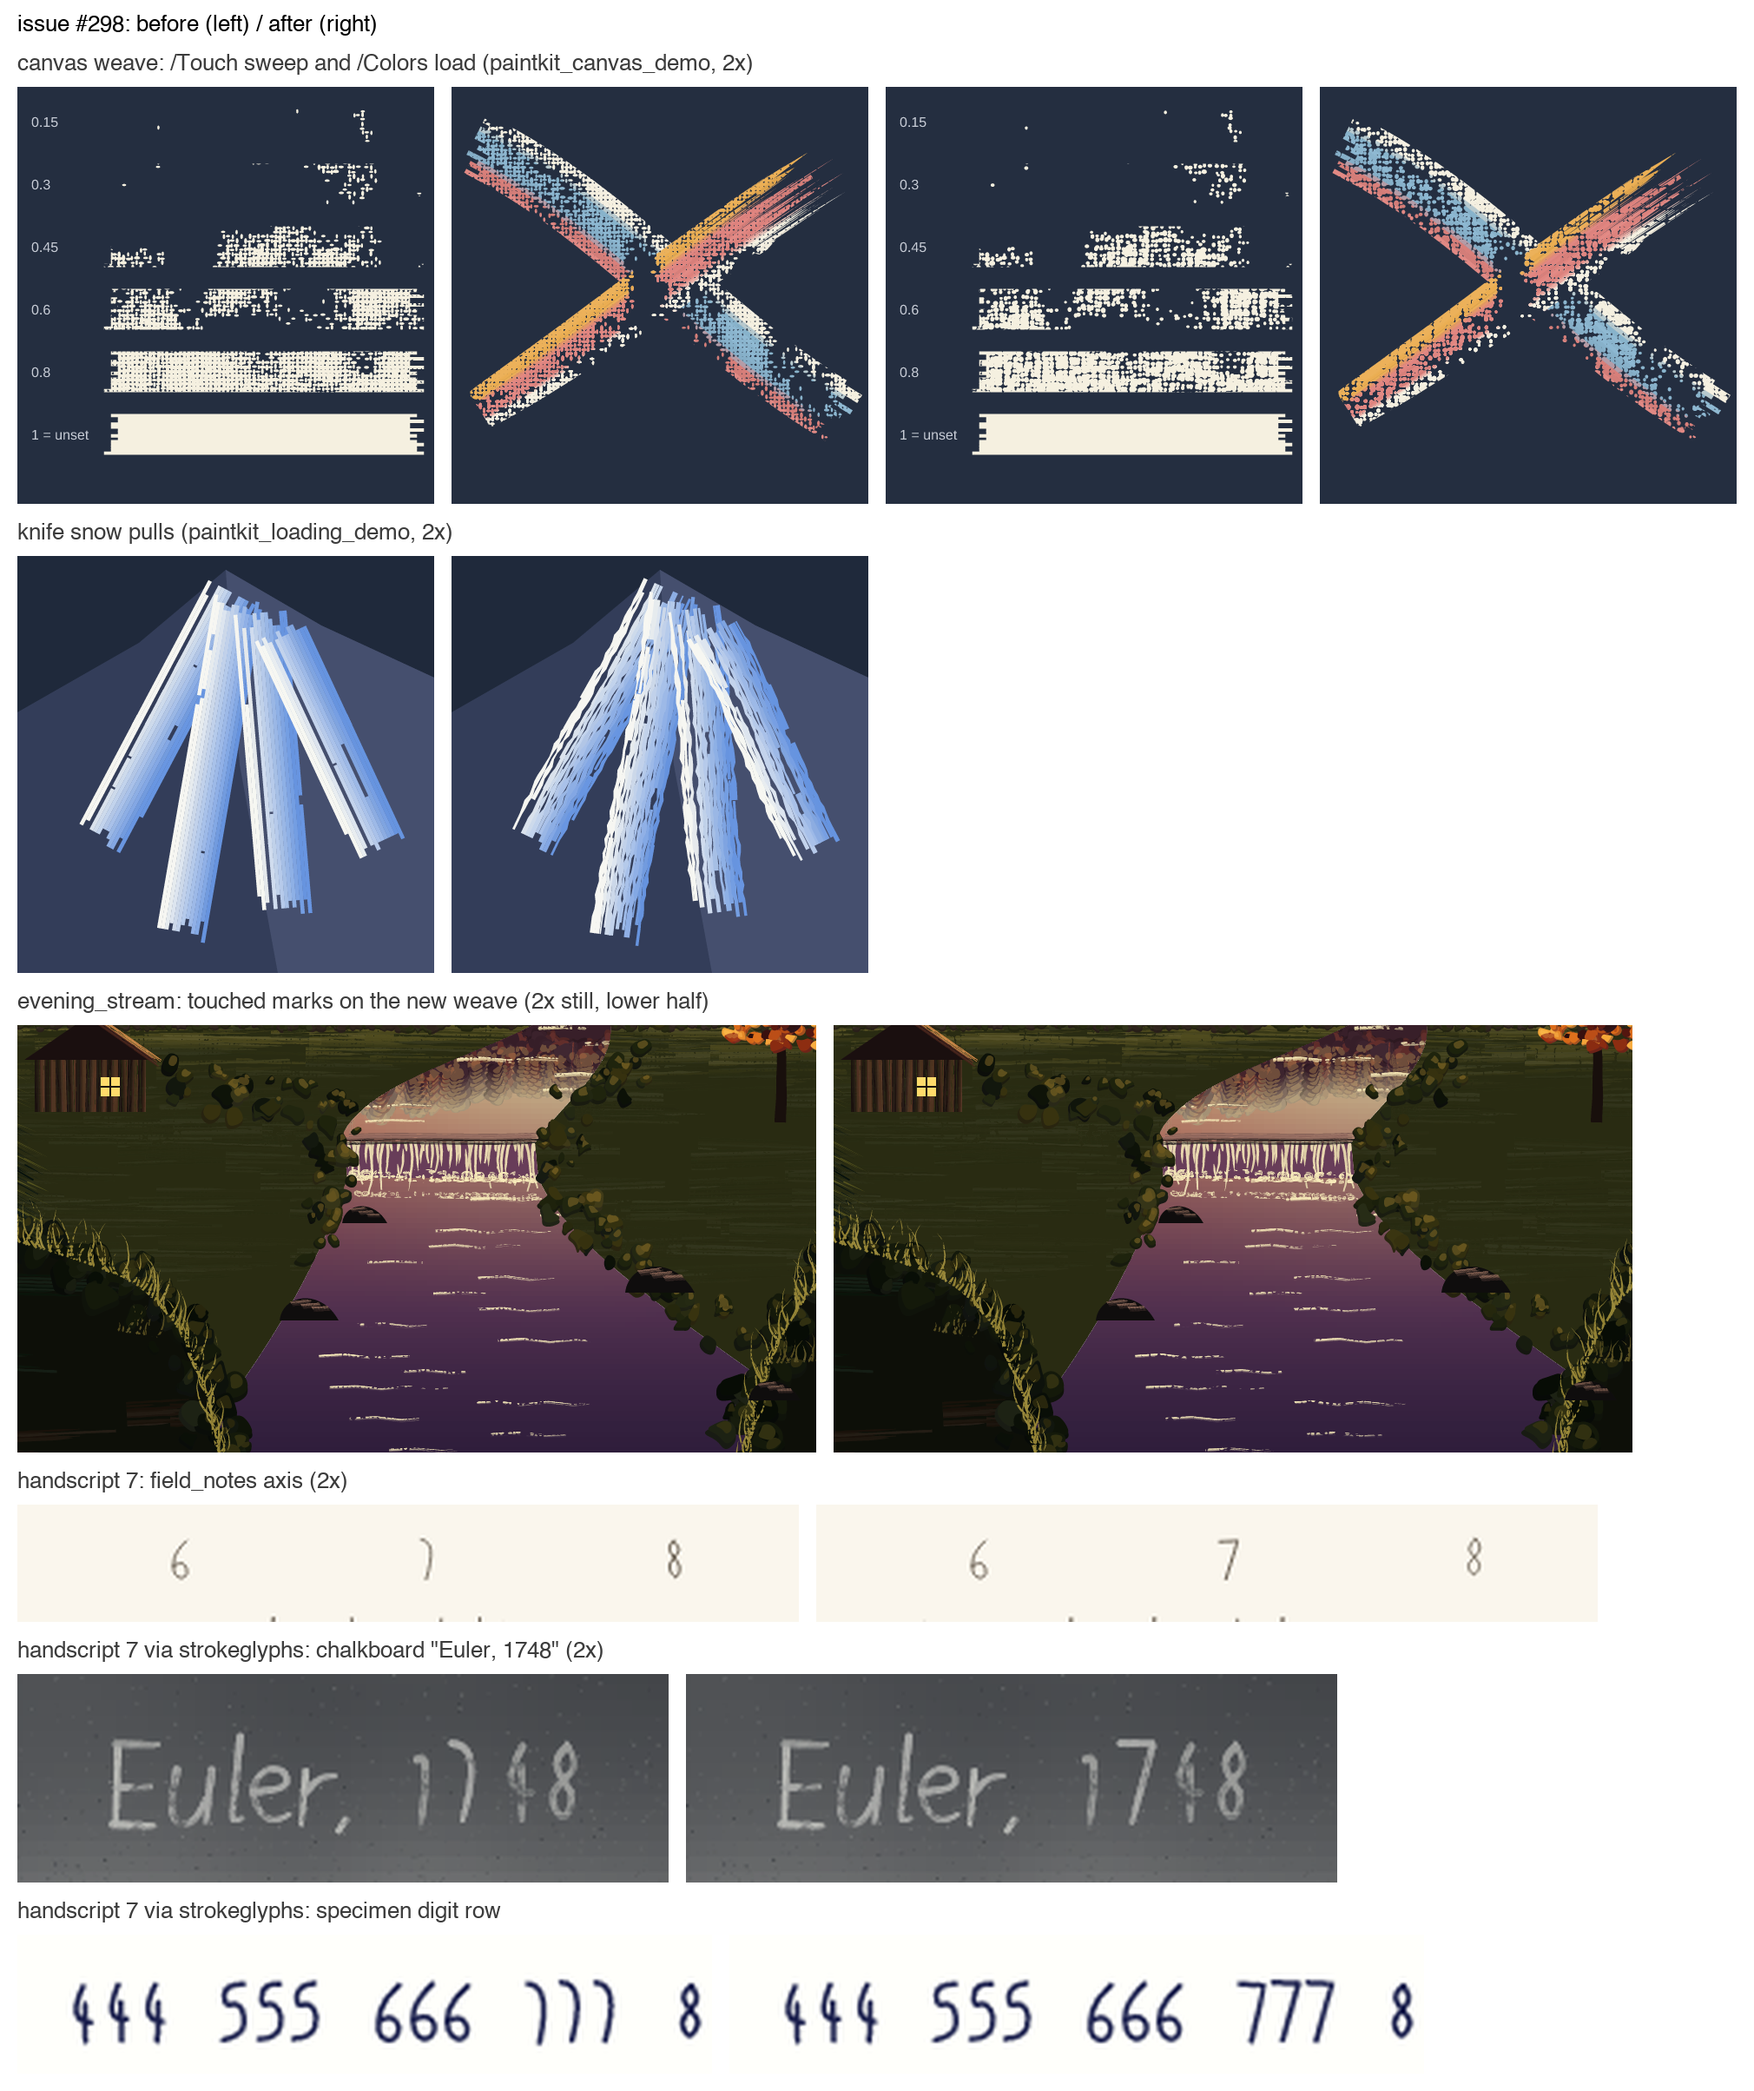
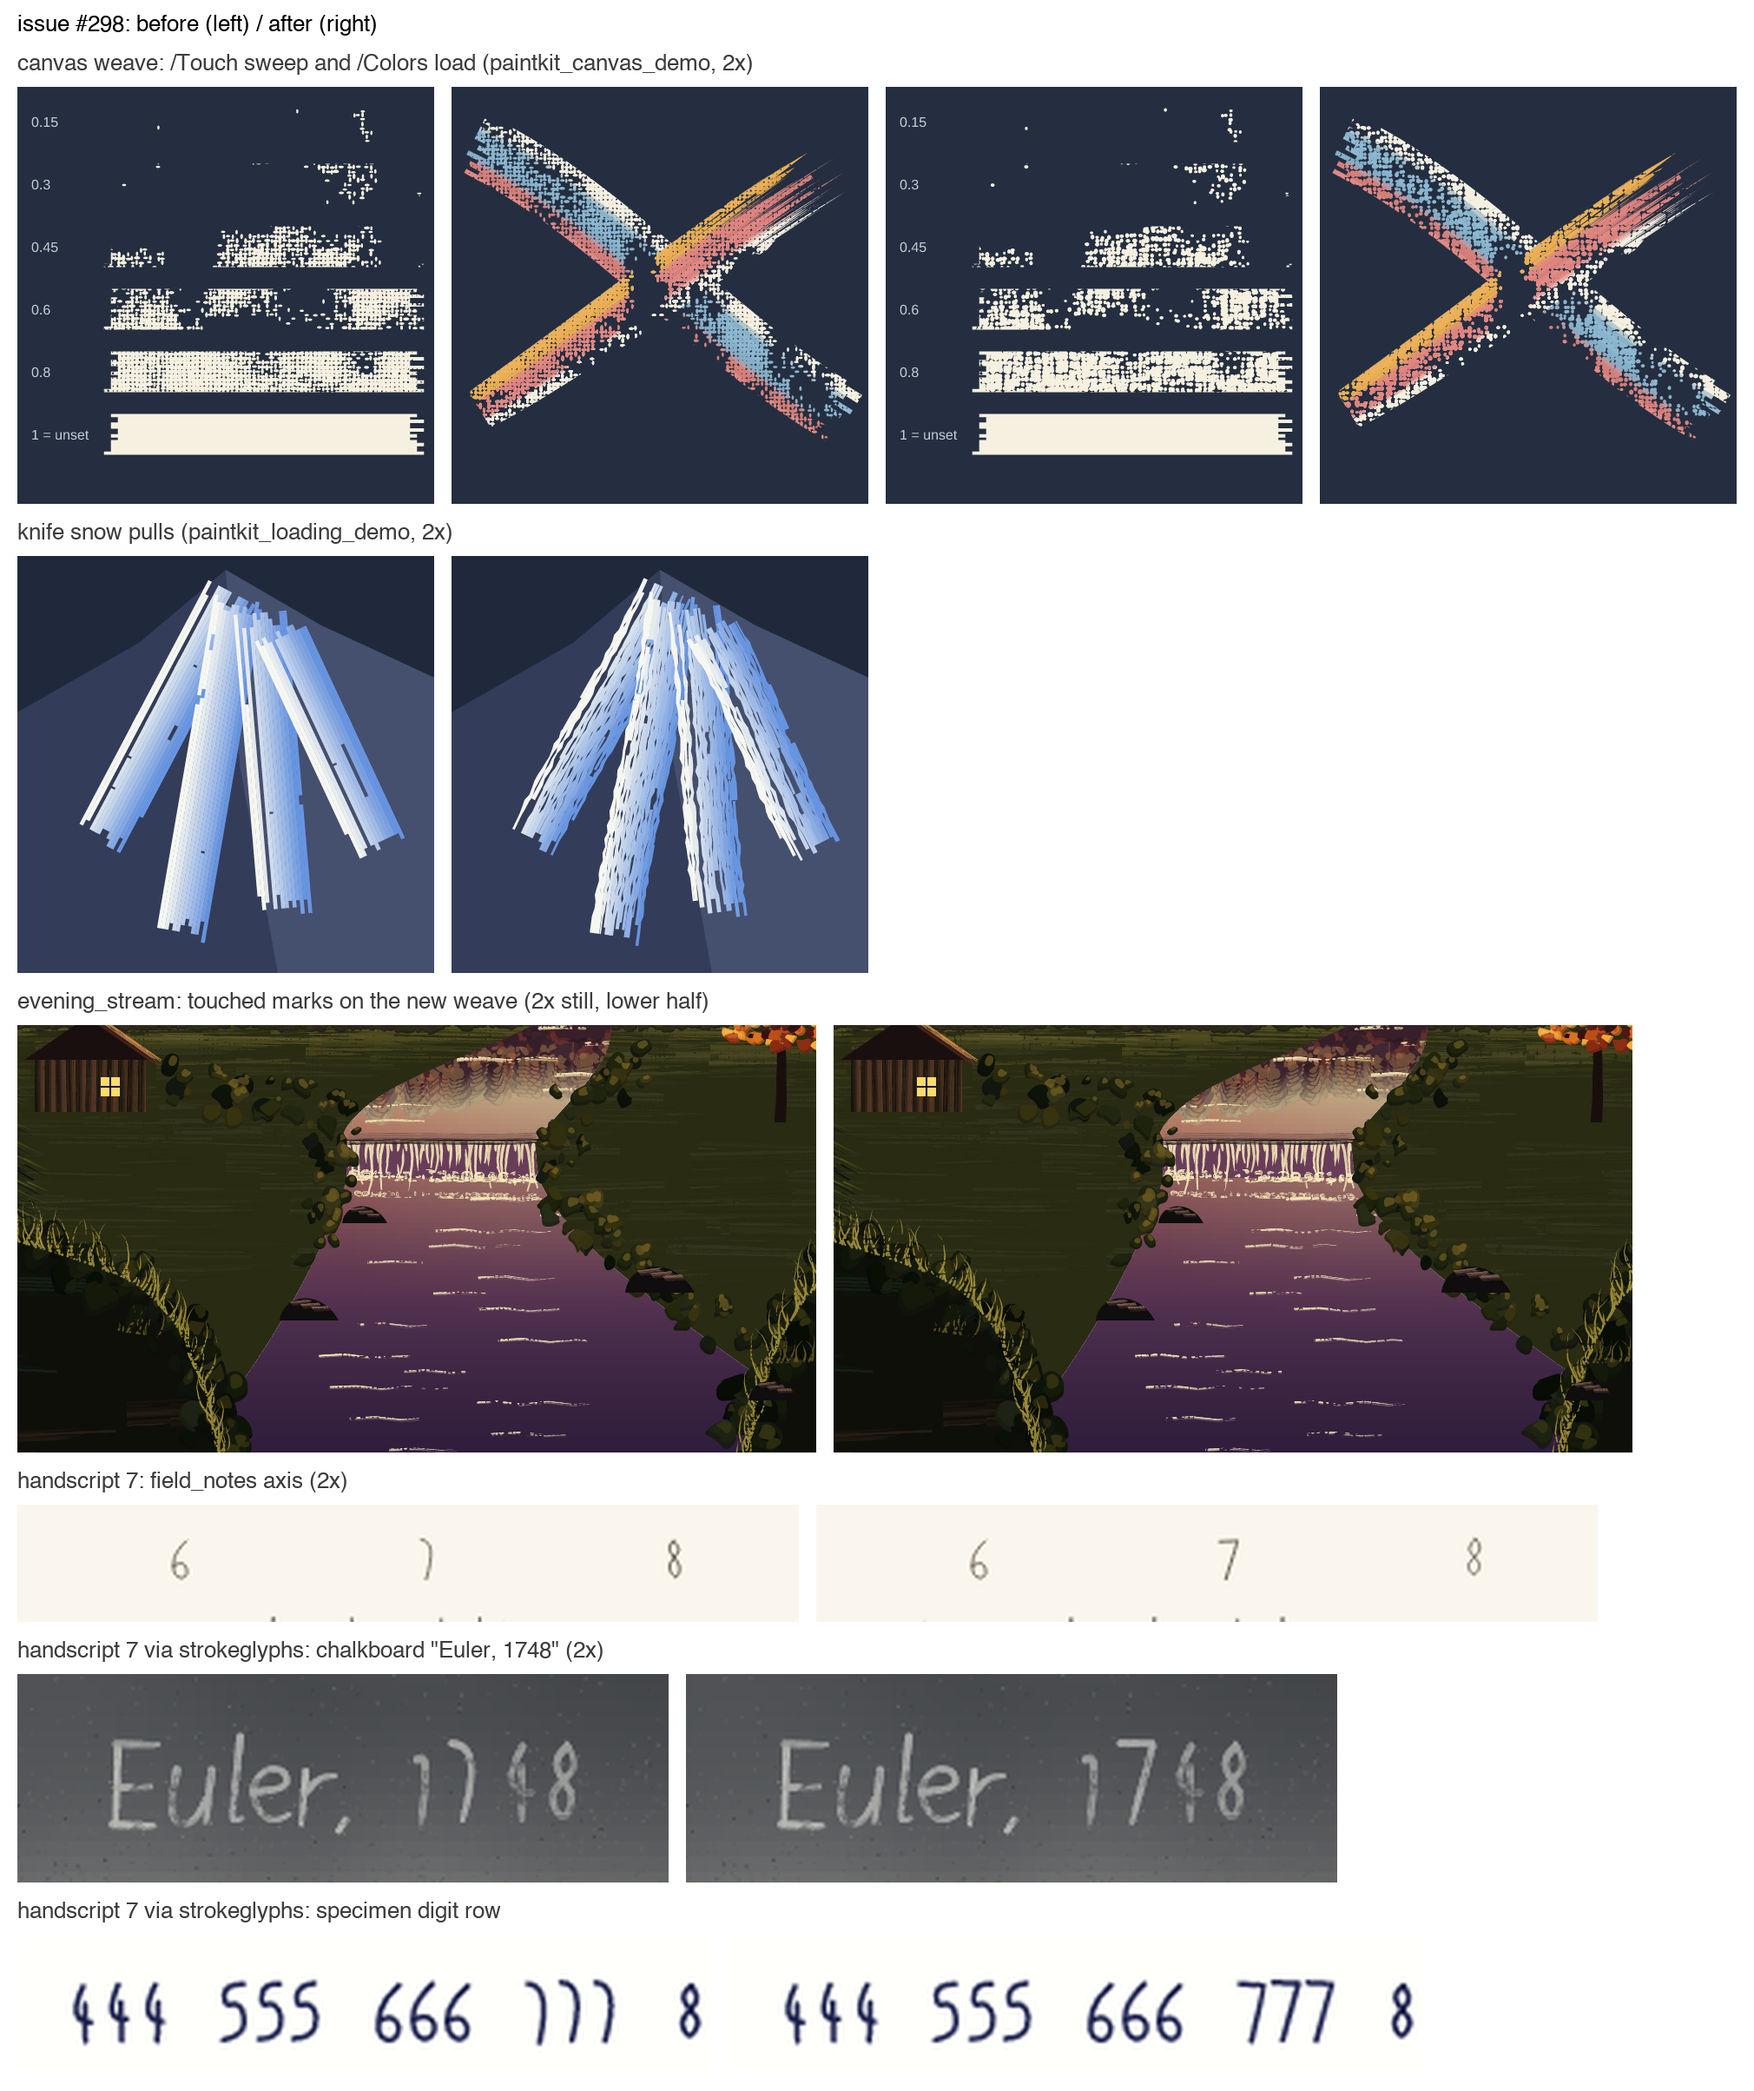
paintkit: weft wander takes its own hash slot so the field is not mirrored about the diagonal (#298)

Changed region(s): [[0.5614, 0.0623, 0.7485, 0.187], [0.7485, 0.0623, 0.9668, 0.2181], [0.7797, 0.1558, 0.8421, 0.187]]

diff --git a/notes/298-specimen-polish.md b/notes/298-specimen-polish.md
@@ -12,7 +12,7 @@ pixel grid. Changes, all pure functions of (seed, i, j), still no rand draws:
 
 - `pjwander`: each column (warp) thread shifts its knuckles in x, each row
   (weft) thread in y, by smoothstepped 1D value noise along the thread (a
-  lattice point every 3 crossings, hash slot 5), in -0.35..0.35 of a cell. A
+  lattice point every 3 crossings, hash slot 5 for warp and 6 for weft), in -0.35..0.35 of a cell. A
   column of knuckles moves together, so the lattice reads as wavy threads.
 - Per-knuckle size 0.8..1.2 (hash slot 4); rounder knuckles, 0.65 x 0.55.
 - The top-fifth growth goes from 0.25 to 0.45. Without it the gaps the
@@ -21,6 +21,10 @@ pixel grid. Changes, all pure functions of (seed, i, j), still no rand draws:
   with 0.25 growth 93.6 / 97.0 / 98.5%, final 96.5 / 99.1 / 99.8%.
 - `pjrange` margin 1.25W -> 1.75W (0.65 x 1.1 x 1.45 x 1.2 + 0.15 + 0.35).
   The 600pt budget self-test still builds 244 x 244 cells.
+- Mid-touch tone barely moves (same square, base -> head): /Touch 0.5
+  32.2 -> 32.3%, 0.6 50.8 -> 50.1%, 0.7 68.8 -> 67.1%, 0.8 82.0 -> 79.5%.
+  So the approved pieces' dry marks keep their tone; only the pattern
+  changes.
 
 Variants tried (aspect, wander period, amplitude): 0.72x0.5/4/±0.25,
 0.8x0.42/4/±0.35, 0.65x0.55/3/±0.35 (chosen), 0.9x0.4/5/±0.3. The dash-shaped

diff --git a/docs/CANVAS_SURFACE.md b/docs/CANVAS_SURFACE.md
@@ -189,9 +189,9 @@ height(i, j)   = (1 - Relief)*hash(i, j, 0) + Relief*mottle(centre)
 The knuckle at cell `(i, j)` is centred at `((i+0.5)W, (j+0.5)W)`,
 nudged by up to `0.15W` on each axis by `hash(i,j,2)` and `hash(i,j,3)`,
 and moved by its threads' wander: the column (warp) thread shifts it
-in x by `wander(i, j)`, the row (weft) thread in y by `wander(j, i)`,
-where `wander(t, k)` is smoothstepped 1D value noise along the thread
-over `hash(t, floor(k/3), 5)`, in `-0.35W..0.35W` (issue #298: on a
+in x by `wander(i, j, 5)`, the row (weft) thread in y by
+`wander(j, i, 6)`, where `wander(t, k, s)` is smoothstepped 1D value
+noise along the thread over `hash(t, floor(k/3), s)`, in `-0.35W..0.35W` (issue #298: on a
 ruled lattice the catch read as a square pixel grid at 2x). It is an
 ellipse of semi-axes `0.65W x 0.55W` times a per-knuckle size
 `0.8 + 0.4 hash(i,j,4)`, long along x when `i + j` is odd and along y
